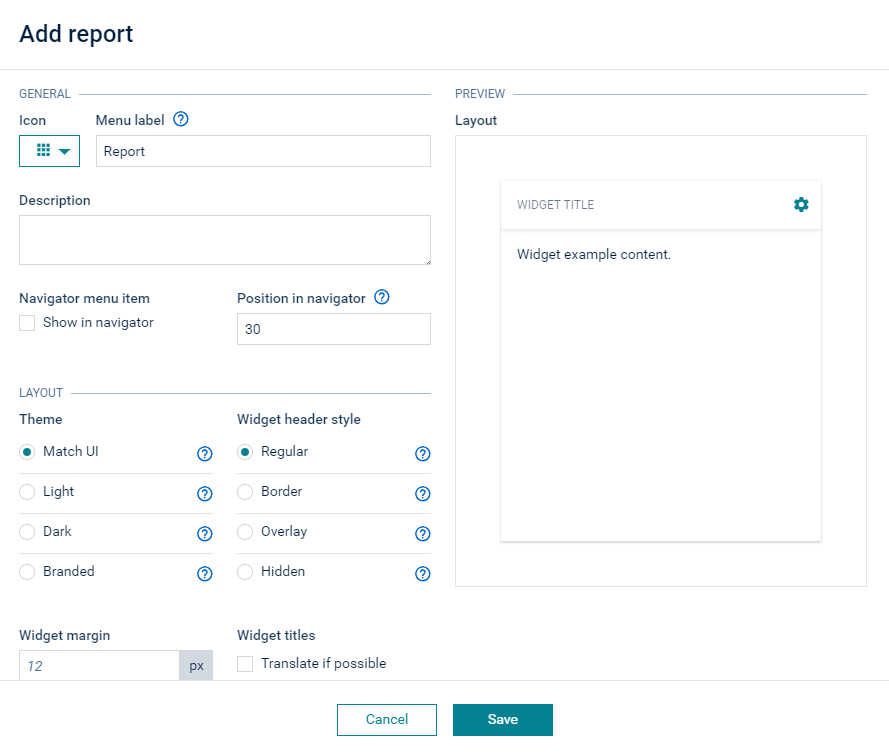
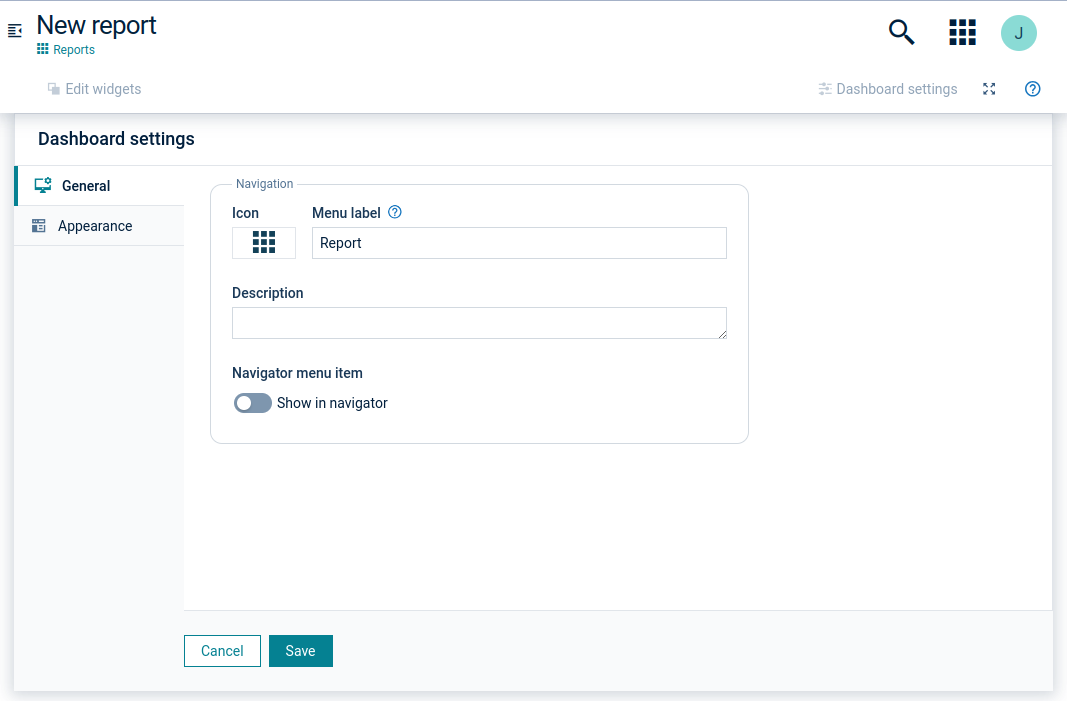
[MTM-58453] Working with reports update: creating

diff --git a/content/cockpit/working-with-reports.md b/content/cockpit/working-with-reports.md
@@ -48,16 +48,16 @@ See [To create a report](#to-create-a-report) below for details on how to config
 
 ### To create a report {#to-create-a-report}
 
-1. Click **Add report** in the top menu bar to open the **Add report** dialog.
+1. Click **Add report** in the top menu bar to open the **New report** view with **General** tab opened.
   <br>![Add report](/images/users-guide/cockpit/cockpit-report-add.png)<br>
 2. In the **Menu label** field, enter a name for the report and optionally provide a description below.
 3. Select **Show in navigator** if you want the report to be displayed in the navigator. Select the position of the report in the navigator. Depending on the value it will be positioned relative to the existing items. If for example "Home" has the value "10000" it will be positioned above "Home", if the value is "10001" or higher.
-4. In the **Layout** section you can select a theme for the report (one of "Light", "Dark", "Transparent" or "Branded") and a default header style for the widgets (one of "Regular", "Border", "Overlay", or "Hidden"). Moreover, you can change the default widget margin (default value is 12 px).
+4. In the **Appearance** tab you can select a theme for the report (one of "Match UI", "Light", "Dark" or "Branded") and a default header style for the widgets (one of "Regular", "Border", "Overlay", or "Hidden"). Moreover, you can change the default widget margin (default value is 12 px).
 If you enable the option **Translate widget titles if possible**, the widget title will be translated every time the language is changed. Note that the widget titles will be translated only if a valid translation is available.
 Click **Save** to create the report and add it to the report list.
 
 {{< c8y-admon-info >}}
-In the **Preview** section at the right, a preview of the selected layout settings is immediately displayed to visualize your selections.
+Preview of the selected layout settings is immediately displayed to visualize your selections on the dashboard below settings drawer.
 {{< /c8y-admon-info >}}
 
 Next, widgets can be added to the report.

diff --git a/content/cockpit/using-widgets-bundle/widgets-dashboards-reports.md b/content/cockpit/using-widgets-bundle/widgets-dashboards-reports.md
@@ -23,7 +23,7 @@ Some of the widget require additional permissions in order to visualize the data
 
 ### To add a widget to a dashboard or a report {#to-add-a-widget-to-a-dashboard-or-a-report}
 
-1. Click **edit widgets** to enter edit mode and then click **Add widget** in the top menu bar or click the **Add widget** button on the main page (only available in case of an empty dashboard/report).
+1. Click **Edit widgets** to enter edit mode and then click **Add widget** in the top menu bar or click the **Add widget** button on the main page (only available in case of an empty dashboard/report).
 
 2. In the **Add widget** dialog, select a widget type.
 
